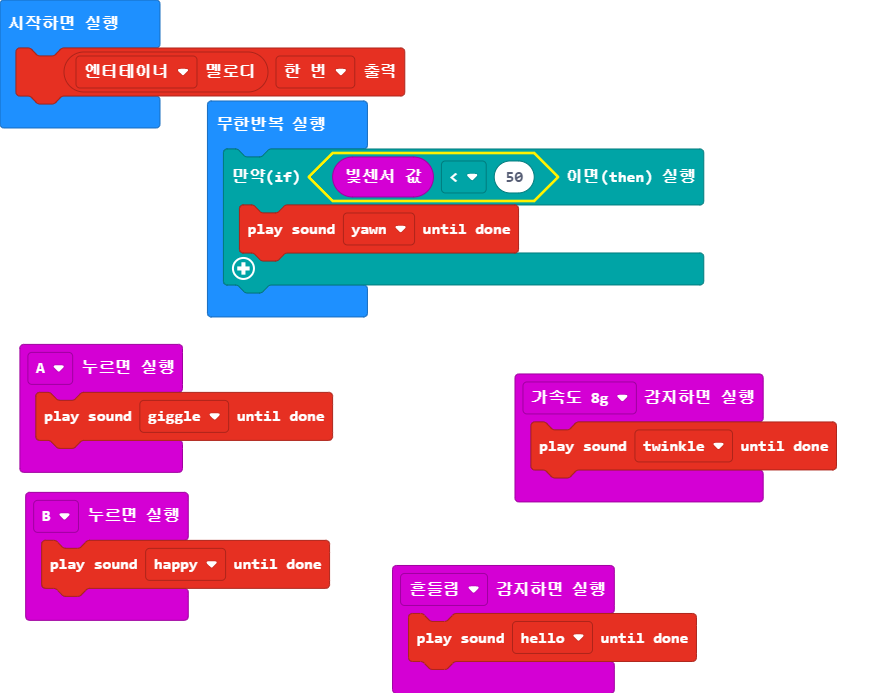
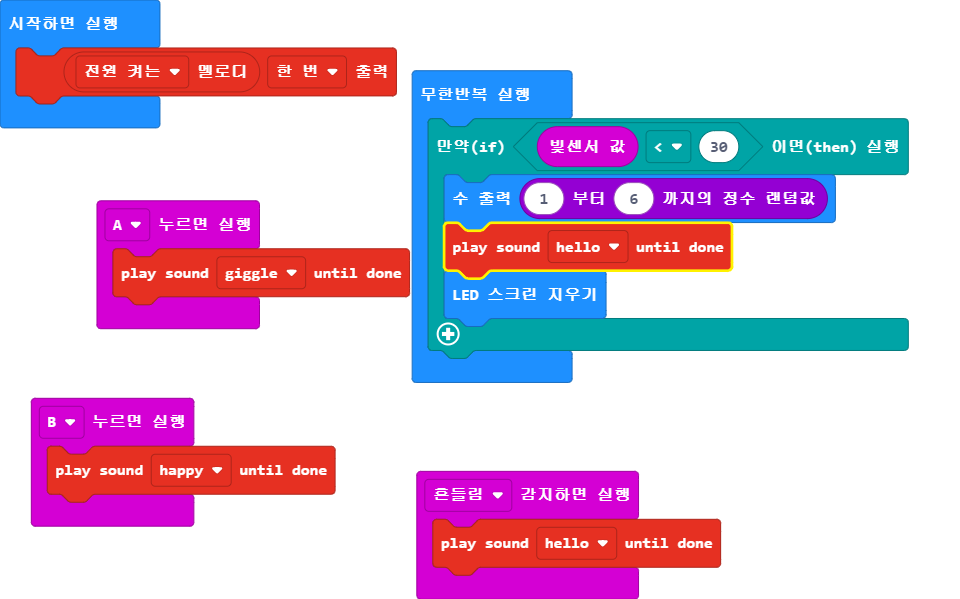
Update main.blocks, main.ts

diff --git a/main.ts b/main.ts
@@ -4,15 +4,14 @@ input.onButtonPressed(Button.A, function () {
 input.onGesture(Gesture.Shake, function () {
     soundExpression.hello.playUntilDone()
 })
-input.onGesture(Gesture.EightG, function () {
-    soundExpression.twinkle.playUntilDone()
-})
 input.onButtonPressed(Button.B, function () {
     soundExpression.happy.playUntilDone()
 })
-music.startMelody(music.builtInMelody(Melodies.Entertainer), MelodyOptions.Once)
+music.startMelody(music.builtInMelody(Melodies.PowerUp), MelodyOptions.Once)
 basic.forever(function () {
-    if (input.lightLevel() < 50) {
-        soundExpression.yawn.playUntilDone()
+    if (input.lightLevel() < 30) {
+        basic.showNumber(randint(1, 6))
+        soundExpression.hello.playUntilDone()
+        basic.clearScreen()
     }
 })
